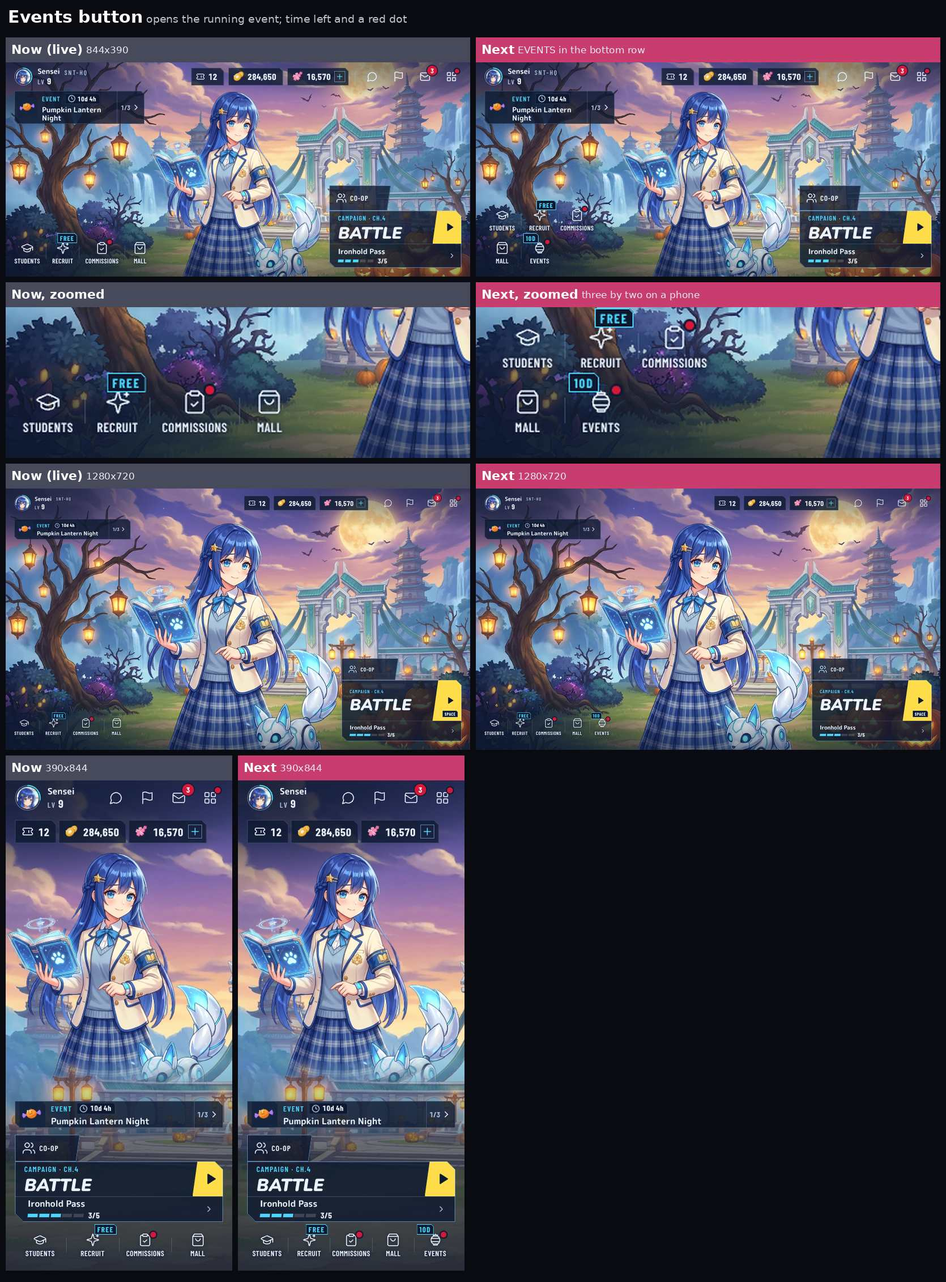
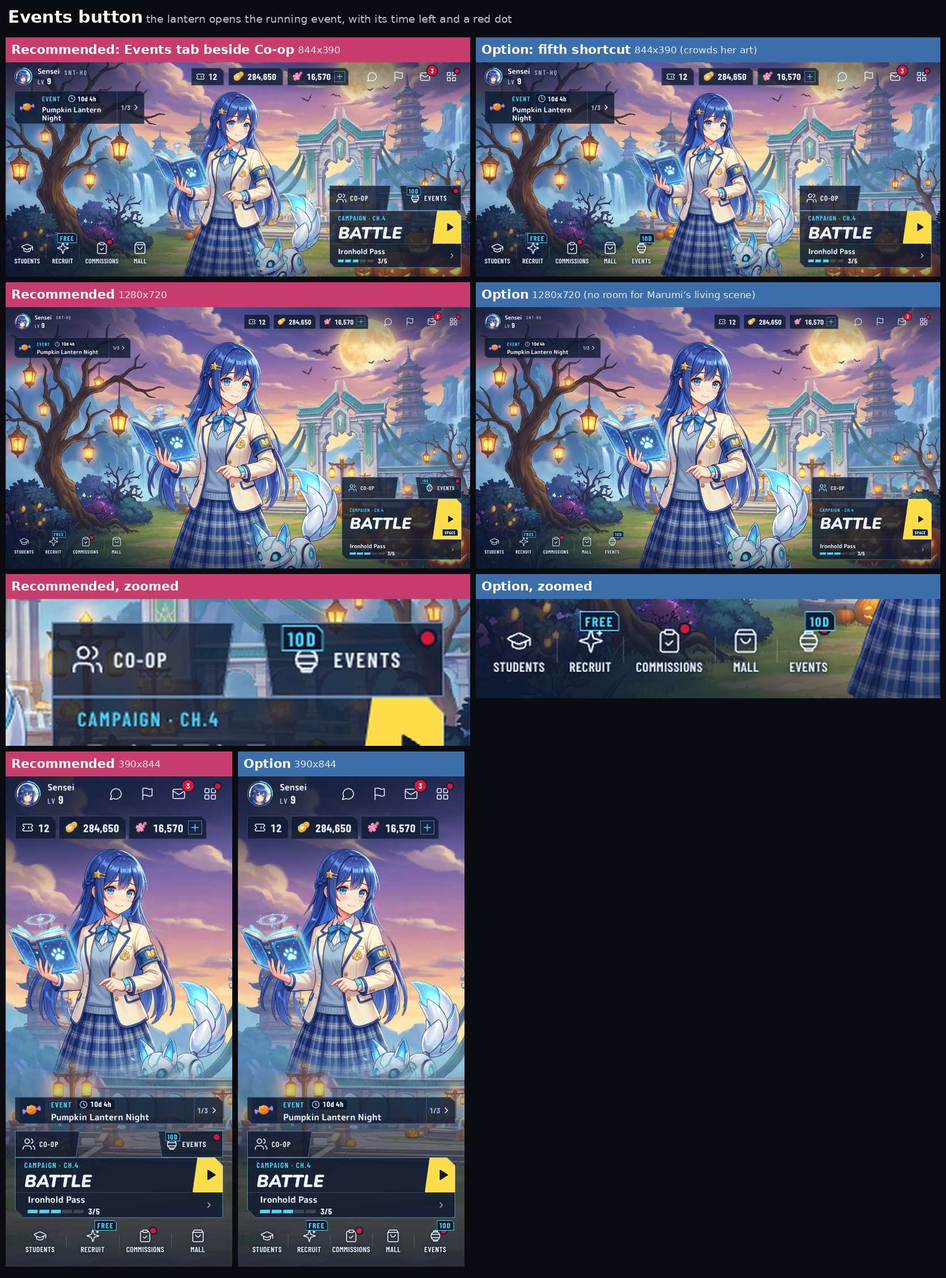
Home: the Events button ships as the tab beside Co-op (HOME_EVENTS 'plate'); the fifth shortcut stays ready
Coordinator, Oct 28: the owner's last look was the plate tab beside CO-OP, with "fifth" as the switch. Patch note
wording and the board's 00-events-button.jpg (the one the owner was sent) follow.

Claude-Session: https://claude.ai/code/session_011tKQCsXYzAZC7aCMrikBYa

diff --git a/src/ui/screens/lobby.js b/src/ui/screens/lobby.js
@@ -823,10 +823,11 @@ function clanButton(btn, glyph) {
  * The Events button (owner, Oct 28: "add an events button at the bottom? or somewhere?"): the lantern glyph; it opens the
  * live event's page, or Happening Now when no event (or more than one) runs (src/systems/events.js eventHomeButton); a
  * red dot when something waits in it; while an event runs, a small sticker with the time left ("4d"). Where it stands:
- * 'dock' a fifth shortcut EVENTS after MALL (the owner's pick, Oct 28: "yes"), 'plate' a tab on the Battle plate's
- * top-right corner, CO-OP's twin, or 'top' an icon button in the top right cluster.
+ * 'plate' a tab on the Battle plate's top-right corner, CO-OP's twin (shipped: the owner was shown it, Oct 28; the four
+ * shortcuts keep their row), 'dock' a fifth shortcut EVENTS after MALL (ready: three by two on a landscape phone, 64 px
+ * cells where the home folds for a girl), or 'top' an icon button in the top right cluster.
  */
-export const HOME_EVENTS = 'dock';
+export const HOME_EVENTS = 'plate';
 /** "4d" / "7h" / "<1h": the time left on the Events sticker. */
 export function shortLeft(msLeft) {
   if (msLeft == null || !Number.isFinite(msLeft)) return null;

diff --git a/src/data/patchNotes.js b/src/data/patchNotes.js
@@ -22,7 +22,7 @@ export const PATCH_NOTES = [
   {
     id: 'v0.1.58', version: '0.1.58', date: '2026-10-28', title: 'Brighter Details',
     added: [
-      'An Events button in the home’s bottom row: it opens the running event (with the time left and a red dot when a gift or reward waits), or Happening Now between events.',
+      'An Events button on the home, right beside Co-op: it opens the running event (with the time left and a red dot when a gift or reward waits), or Happening Now between events.',
     ],
     changed: [
       'Marumi’s living scene on the home now shows in full colour too.',

diff --git a/docs/review/display-polish/README.md b/docs/review/display-polish/README.md
@@ -1,9 +1,9 @@
 # Display polish (after v0.1.56): the board
 
-- `00-events-button.jpg`: the Events button the owner said yes to, a fifth shortcut EVENTS after MALL, now vs next at
-  844x390 (and zoomed: three by two on a landscape phone), 1280x720 and 390x844. The lantern opens the running event
-  (or Happening Now between events), with its time left and a red dot when something waits. A tab beside Co-op or a
-  top-bar icon stay one switch away (HOME_EVENTS in src/ui/screens/lobby.js).
+- `00-events-button.jpg`: the Events button (owner: "add an events button at the bottom? or somewhere?") as shipped: a
+  tab on the Battle plate beside Co-op (lantern glyph, the time left, a red dot when something waits; the word drops on
+  small phones), next to the fifth-shortcut option. The fifth shortcut is ready one switch away (HOME_EVENTS 'dock' in
+  src/ui/screens/lobby.js: three by two on a landscape phone, 64 px cells where the home folds for a girl).
 - `01-marumi-living-scene.jpg`: Marumi's living scene (High graphics, motion allowed) now vs next, at 844x390 and
   1280x720. The plate is in full colour (rebuilt by tools/art/unbakeMarumiPlate.py) and the engine draws only the quiet
   home's two top-corner washes.
